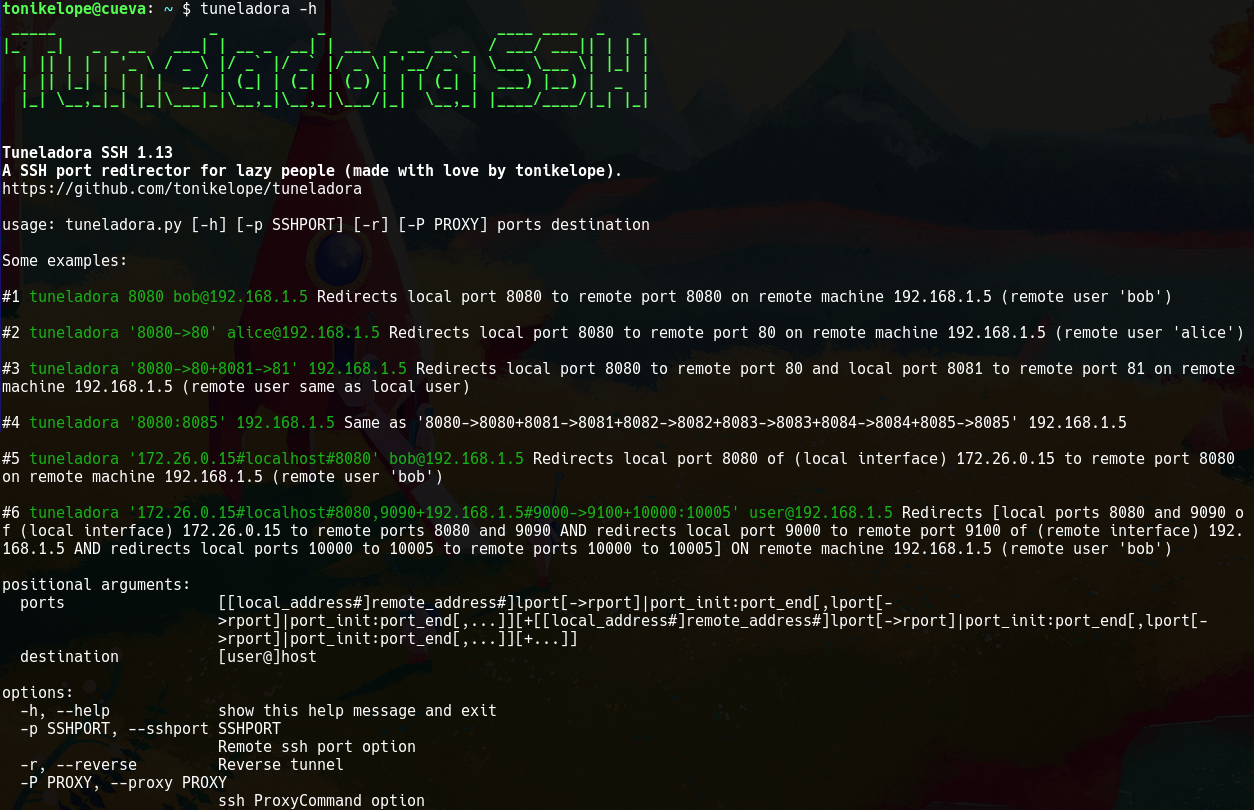
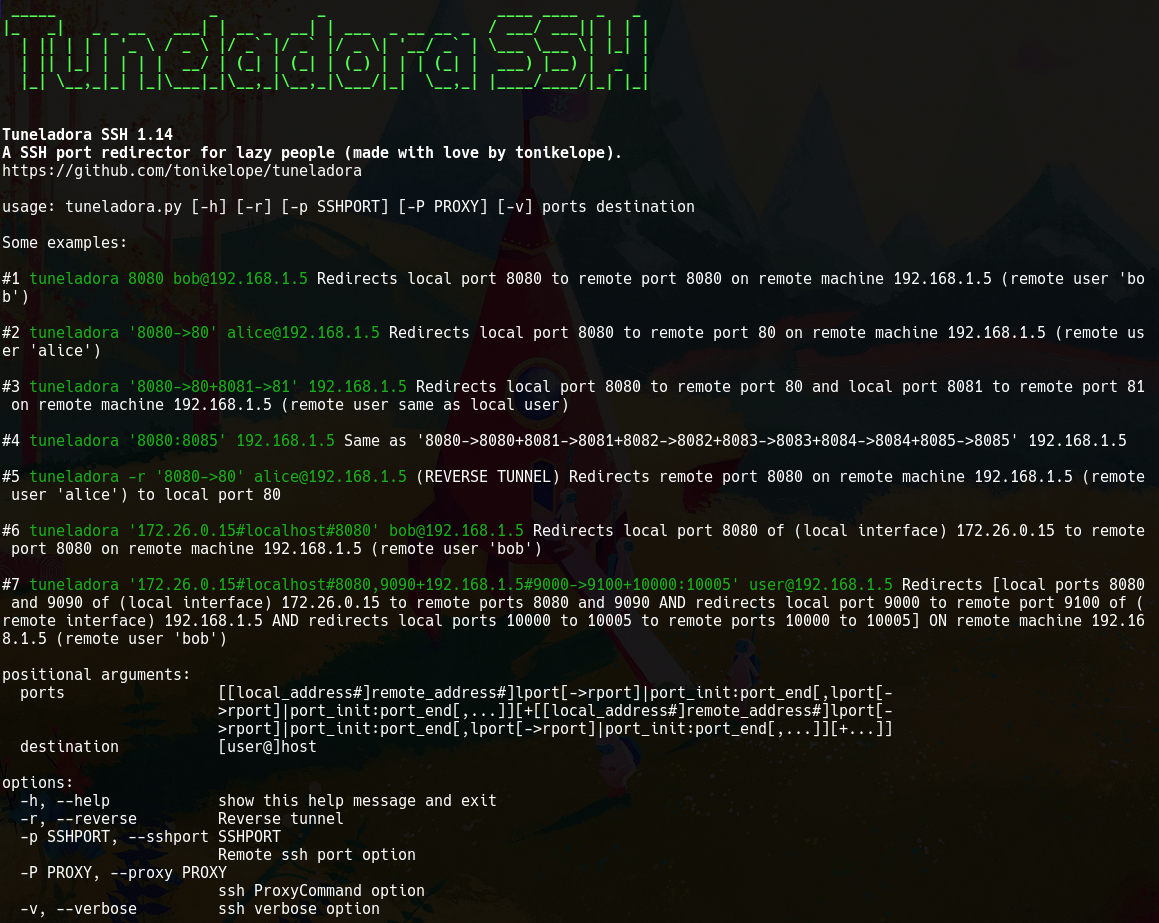
1.14

Changed region(s): [[0.0, 0.0, 0.994, 0.7716], [0.0, 0.8025, 0.4349, 1.0], [0.1553, 0.7407, 0.9629, 0.8333]]

diff --git a/tuneladora.py b/tuneladora.py
@@ -60,7 +60,7 @@ cprint("Tuneladora SSH "+VERSION+"\nA SSH port redirector for lazy people (made 
 cprint("https://github.com/tonikelope/tuneladora\n")
 
 parser = argparse.ArgumentParser(formatter_class=argparse.RawDescriptionHelpFormatter, description=
-	colored("Some examples:\n\n#1")+colored(" tuneladora 8080 bob@192.168.1.5", "green")+colored(" Redirects local port 8080 to remote port 8080 on remote machine 192.168.1.5 (remote user 'bob')")+colored("\n\n#2")+colored(" tuneladora '8080->80' alice@192.168.1.5", "green")+colored(" Redirects local port 8080 to remote port 80 on remote machine 192.168.1.5 (remote user 'alice')")+colored("\n\n#3")+colored(" tuneladora '8080->80+8081->81' 192.168.1.5", "green")+colored(" Redirects local port 8080 to remote port 80 and local port 8081 to remote port 81 on remote machine 192.168.1.5 (remote user same as local user)")+colored("\n\n#4")+colored(" tuneladora '8080:8085' 192.168.1.5", "green")+colored(" Same as '8080->8080+8081->8081+8082->8082+8083->8083+8084->8084+8085->8085' 192.168.1.5")+colored("\n\n#5")+colored(" tuneladora -r '8080->80' bob@192.168.1.5", "green")+colored(" (REVERSE TUNNEL) Redirects remote port 8080 on remote machine 192.168.1.5 (remote user 'alice') to local port 80")+colored("\n\n#6")+colored(" tuneladora '172.26.0.15#localhost#8080' bob@192.168.1.5", "green")+colored(" Redirects local port 8080 of (local interface) 172.26.0.15 to remote port 8080 on remote machine 192.168.1.5 (remote user 'bob')")+colored("\n\n#7")+colored(" tuneladora '172.26.0.15#localhost#8080,9090+192.168.1.5#9000->9100+10000:10005' user@192.168.1.5", "green")+colored(" Redirects [local ports 8080 and 9090 of (local interface) 172.26.0.15 to remote ports 8080 and 9090 AND redirects local port 9000 to remote port 9100 of (remote interface) 192.168.1.5 AND redirects local ports 10000 to 10005 to remote ports 10000 to 10005] ON remote machine 192.168.1.5 (remote user 'bob')"))
+	colored("Some examples:\n\n#1")+colored(" tuneladora 8080 bob@192.168.1.5", "green")+colored(" Redirects local port 8080 to remote port 8080 on remote machine 192.168.1.5 (remote user 'bob')")+colored("\n\n#2")+colored(" tuneladora '8080->80' alice@192.168.1.5", "green")+colored(" Redirects local port 8080 to remote port 80 on remote machine 192.168.1.5 (remote user 'alice')")+colored("\n\n#3")+colored(" tuneladora '8080->80+8081->81' 192.168.1.5", "green")+colored(" Redirects local port 8080 to remote port 80 and local port 8081 to remote port 81 on remote machine 192.168.1.5 (remote user same as local user)")+colored("\n\n#4")+colored(" tuneladora '8080:8085' 192.168.1.5", "green")+colored(" Same as '8080->8080+8081->8081+8082->8082+8083->8083+8084->8084+8085->8085' 192.168.1.5")+colored("\n\n#5")+colored(" tuneladora -r '8080->80' alice@192.168.1.5", "green")+colored(" (REVERSE TUNNEL) Redirects remote port 8080 on remote machine 192.168.1.5 (remote user 'alice') to local port 80")+colored("\n\n#6")+colored(" tuneladora '172.26.0.15#localhost#8080' bob@192.168.1.5", "green")+colored(" Redirects local port 8080 of (local interface) 172.26.0.15 to remote port 8080 on remote machine 192.168.1.5 (remote user 'bob')")+colored("\n\n#7")+colored(" tuneladora '172.26.0.15#localhost#8080,9090+192.168.1.5#9000->9100+10000:10005' user@192.168.1.5", "green")+colored(" Redirects [local ports 8080 and 9090 of (local interface) 172.26.0.15 to remote ports 8080 and 9090 AND redirects local port 9000 to remote port 9100 of (remote interface) 192.168.1.5 AND redirects local ports 10000 to 10005 to remote ports 10000 to 10005] ON remote machine 192.168.1.5 (remote user 'bob')"))
 
 parser.add_argument("ports", help="[[local_address#]remote_address#]lport[->rport]|port_init:port_end[,lport[->rport]|port_init:port_end[,...]][+[[local_address#]remote_address#]lport[->rport]|port_init:port_end[,lport[->rport]|port_init:port_end[,...]][+...]]")
 
